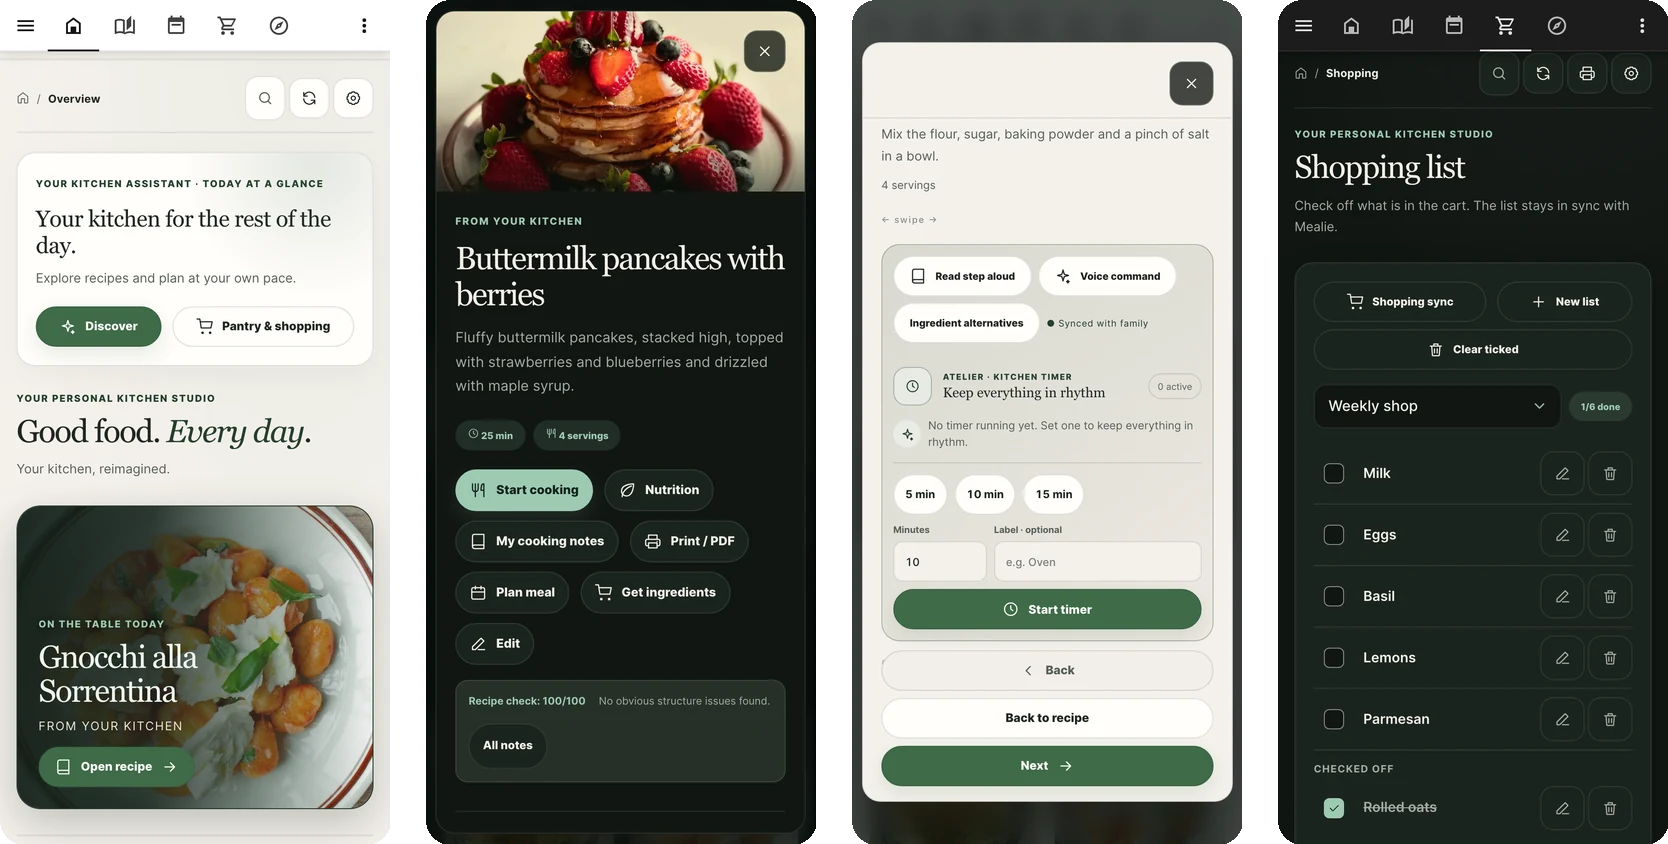
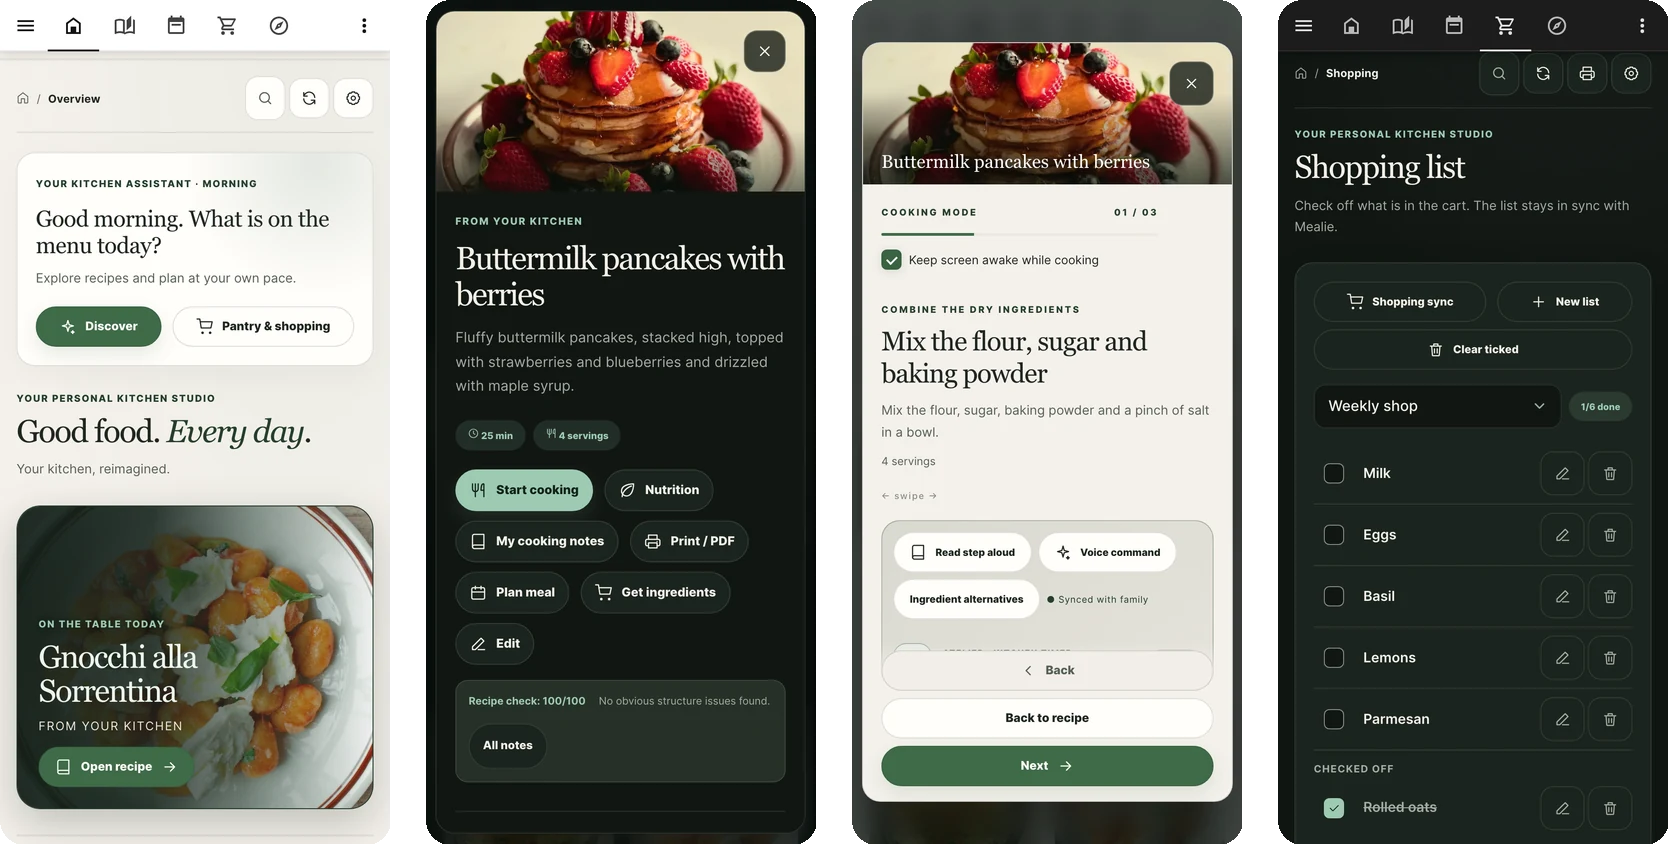
Recapture the recipe and cooking shots from the dialog top and pin every shot to the same time of day

Changed region(s): [[0.4988, 0.0308, 0.7482, 0.5545], [0.53, 0.5853, 0.717, 0.7701], [0.0, 0.2156, 0.2182, 0.3081]]

diff --git a/scripts/capture-readme-shots.py b/scripts/capture-readme-shots.py
@@ -24,6 +24,7 @@ ONLY = set(os.environ.get("SHOTS", "").split(",")) - {""}
 sys.argv = [sys.argv[0], str(ROOT / "assets" / "screens"), "en"]
 
 import asyncio  # noqa: E402
+from datetime import datetime  # noqa: E402
 
 import capture_screens as cs  # noqa: E402
 
@@ -47,7 +48,7 @@ def save(png: Path, name: str, size: tuple[int, int]) -> Image.Image:
 
 
 def context(browser, theme: str, viewport: dict, phone: bool):
-    return browser.new_context(
+    ctx = browser.new_context(
         viewport=viewport,
         color_scheme=theme,
         locale="en-US",
@@ -56,6 +57,9 @@ def context(browser, theme: str, viewport: dict, phone: bool):
         has_touch=phone,
         service_workers="block",
     )
+    # Every shot is taken at the same time of day, so the overview greets the same way on phone and desktop.
+    ctx.clock.set_fixed_time(datetime.now().replace(hour=9, minute=0, second=0, microsecond=0))
+    return ctx
 
 
 PHONE_BOARD = "atelier-shots-phone"
@@ -206,15 +210,8 @@ def fit_recipe_top(page) -> None:
     tall = 1140
     page.set_viewport_size({"width": DESKTOP["width"], "height": tall})
     page.wait_for_timeout(400)
-    top = modal.evaluate(
-        "(m, [cuts, limit]) => { m.style.transition = 'none';"
-        " for (let t = 0; t <= limit; t += 1) { m.scrollTop = t; if (eval(cuts)(m, false, 14, 2) === 0) return t; }"
-        " return -1; }",
-        [CUTS, 200],
-    )
-    if top < 0:
-        raise SystemExit("no scroll position with a clean dialog bottom edge")
-    print("recipe dialog scroll", top)
+    # From the top, as the dialog opens: the photo stays whole, the lists continue below the dialog edge.
+    modal.evaluate("m => { m.style.transition = 'none'; m.scrollTop = 0; }")
     CLIP = {"x": 0, "y": (tall - DESKTOP["height"]) // 2, "width": DESKTOP["width"], "height": DESKTOP["height"]}
     page.mouse.move(2, 2)
     page.wait_for_timeout(600)
@@ -405,7 +402,7 @@ def main() -> None:
                     modal = page.locator(".modal >> visible=true").first
                     if step == "cook":
                         start_cooking(page)
-                        scroll_cook_dialog(page)
+                        modal.evaluate("m => { m.scrollTop = 0; }")
                     else:
                         modal.evaluate("m => { m.scrollTop = 0; }")
                         fit_phone_viewport(page, lambda: modal.evaluate(CUTS, False))
